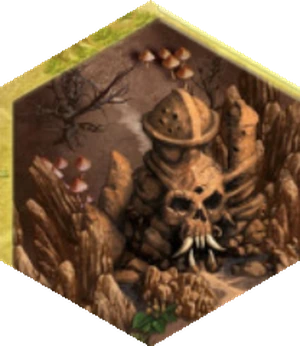
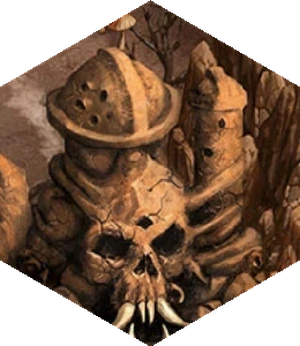
Replace Subterranean Gate token art with the page-35 illustration
Re-crops the gate token from the rulebook's page-35 "Subterranean Gate Tokens"
illustration (cleaner source than the page-34 diagram, no surface-tile bleed),
masked to a pointy-top hexagon that fills the board hex cell with no page or
adjacent-tile bleed. Same asset path, so no rendering changes are needed.

Claude-Session: https://claude.ai/code/session_01TszUeYhnKASoENwv2Ddk1a

diff --git a/src/data/assets/homm-assets.ts b/src/data/assets/homm-assets.ts
@@ -161,7 +161,8 @@ export const TILE_BACK_IMAGES: Record<string, string> = {
 /**
  * Location Token art overlaid on the field a Token is placed on, on top of the
  * tile scan. Only the Subterranean Gate Token (Stronghold expansion) is wired
- * so far — the cave-mouth token cropped from the rulebook's page-34 diagram.
+ * so far — the cave-mouth token cropped from the rulebook's page-35
+ * "Subterranean Gate Tokens" illustration.
  */
 export const LOCATION_TOKEN_IMAGES: Record<string, string> = {
   subterranean_gate: "/assets/board/tokens/subterranean-gate.webp"
